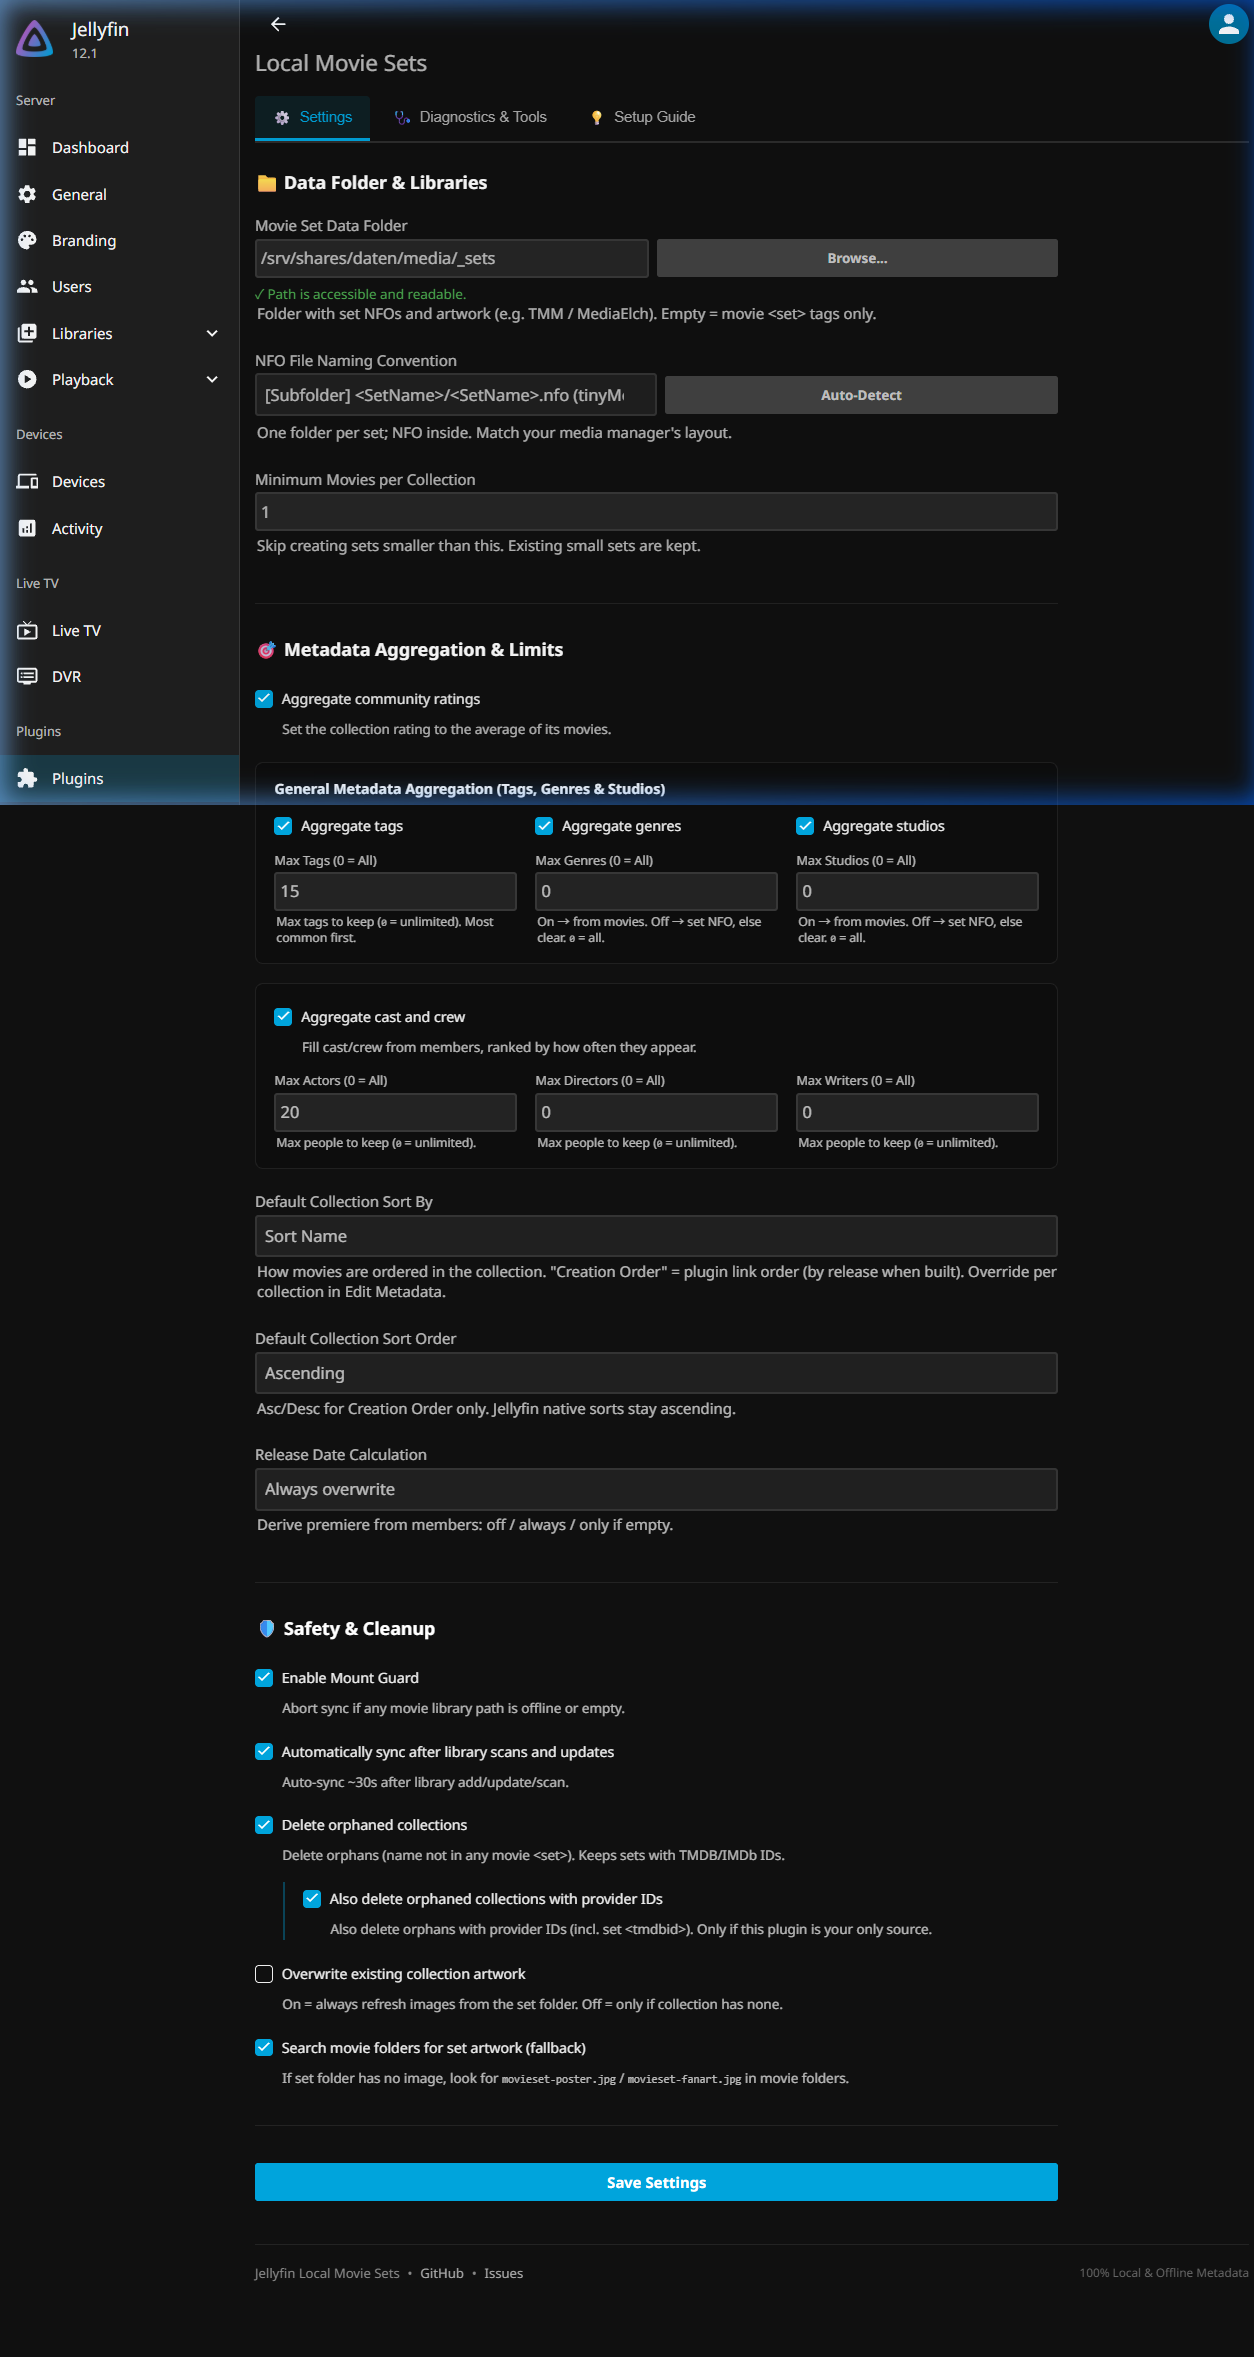
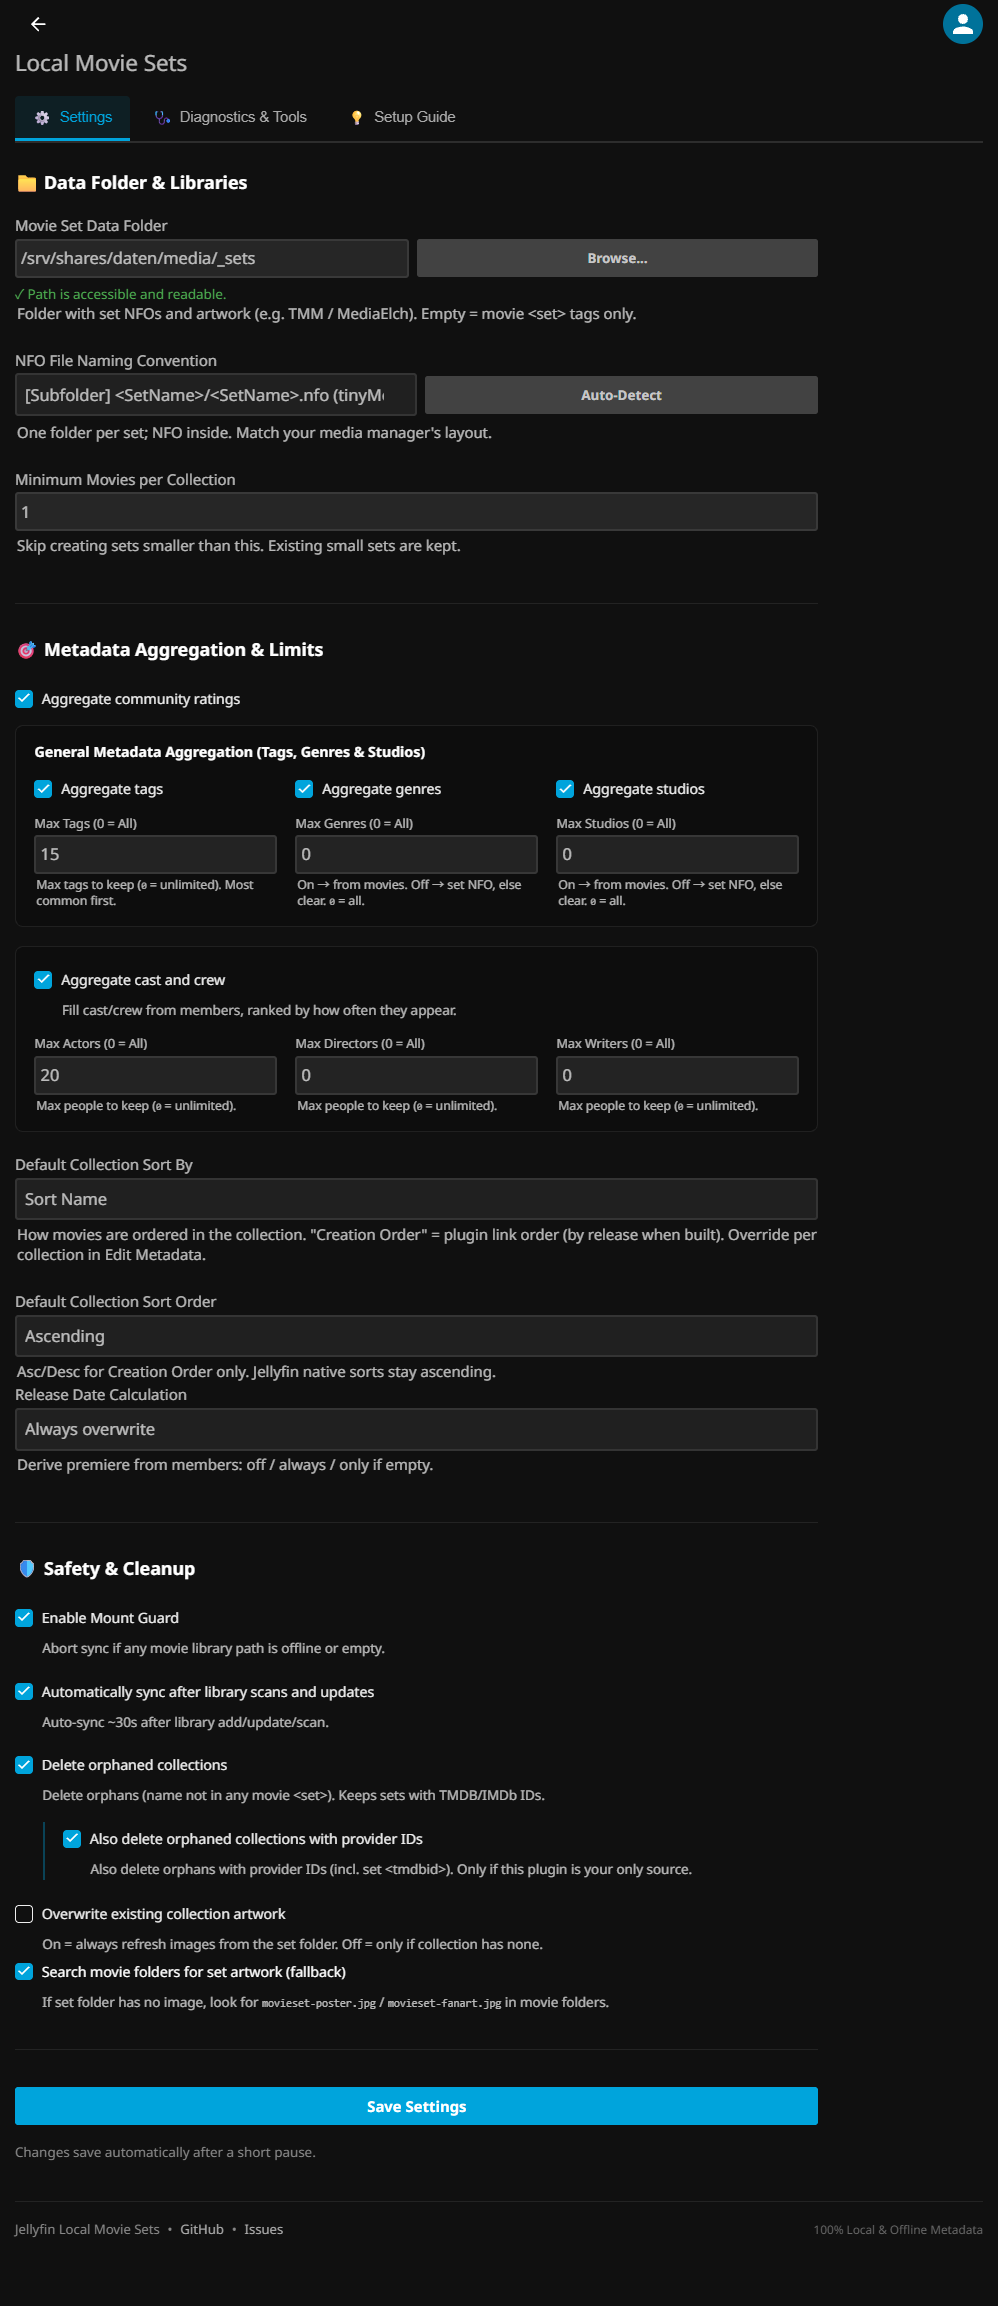
chore(release): prepare v1.0.36.0 release

Changed region(s): [[0.0, 0.0, 1.0, 0.9367], [0.6834, 0.8118, 0.7144, 0.843]]

diff --git a/CHANGELOG.md b/CHANGELOG.md
@@ -3,6 +3,25 @@
 All notable changes to this project will be documented in this file.
 The format is based on [Keep a Changelog](https://keepachangelog.com/en/1.1.0/).
 
+## [1.0.36.0] - 2026-10-01
+### Added
+- **Settings autosave:** Settings-tab changes save after a short pause (about 250 ms for checkboxes and dropdowns, about 900 ms for text and number fields; leaving a field saves immediately). **Save Settings** still saves at once. Confirmation uses the floating toast so the page does not shift.
+- **Live System Info & Bug Report:** Opening the dialog runs a dry-run Preview, NFO/artwork validation, and health checks (auto-add, image fetchers, grouping) instead of reusing only the last sync snapshot.
+- **Theme songs link:** The Setup Guide link opens Display preferences for the current user (`userId`). If that id is unavailable, it falls back to the user settings menu.
+
+### Changed
+- **Settings help text:** Shortened field descriptions on the Settings tab.
+- **Validate query parameter:** Diagnostics export passes `folderPath` so an unsaved Set Data Folder input is validated.
+- **Bug report template:** Path masking is on by default; title masking is optional and pattern-limited.
+- **README:** Screenshots match the current three-tab UI. Mount Guard and media-file FAQ match actual behavior (movie-library roots only; theme audio is copied into the Jellyfin collection folder).
+
+### Removed
+- **Inline status banner:** Save and sync messages no longer insert a bar that pushes the page down.
+- **Dashboard & History tab / Insights widget:** Sync progress stays in Jellyfin's activity log and Scheduled Tasks. Diagnostics export still includes last-run metrics when available.
+- **Dead status poll after Force Rebuild:** Removed a leftover poll call for a function that no longer exists.
+
+---
+
 ## [1.0.35.0] - 2026-09-30
 ### Added
 - **Interactive Dry-Run Sync Preview:** Comprehensive redesign of the preview tool in the Diagnostics tab:
@@ -20,16 +39,7 @@ The format is based on [Keep a Changelog](https://keepachangelog.com/en/1.1.0/).
 ### Changed
 - **Streamlined Configuration Tabs:** Consolidated into three focused tabs: ⚙ Settings, 🩺 Diagnostics & Tools, and 💡 Setup Guide.
 - **Default Limit Values:** Set default limit inputs to `0` (Unbegrenzt / All) across all metadata aggregation fields.
-- **README accuracy:** Feature list and FAQ now match current defaults (no library filter, optional release year/aggregation, theme music only from the set folder).
-- **Bug report template:** Clarified that path masking is on by default and title masking is optional / pattern-limited.
-- **Validate query parameter:** Diagnostics export now passes `folderPath` so an unsaved Set Data Folder input is actually validated.
-- **Settings help text:** Shortened field descriptions across the Settings tab for clearer defaults and orphan/artwork behavior.
-- **System Info & Bug Report:** Opens immediately and collects a live dry-run Preview, NFO/artwork validation, and health checks (auto-add / fetchers / grouping) instead of reusing only the last sync snapshot.
-- **Settings autosave:** Settings tab changes save automatically (≈250&nbsp;ms for checkboxes/selects, ≈900&nbsp;ms grace for text/number fields; blur flushes immediately). Save Settings still saves at once.
 
-### Removed
-- **Dashboard & History tab / Insights widget:** Removed from the configuration UI. Sync progress is visible via Jellyfin's server activity log and Scheduled Tasks; diagnostics export still includes last-run metrics when available.
-- **Dead status poll after Force Rebuild:** Removed a leftover `scheduleStatusPoll` call that referenced a function no longer present in the page.
 ---
 
 ## [1.0.34.0] - 2026-09-30

diff --git a/README.md b/README.md
@@ -62,7 +62,7 @@ If you curate your media collection using media managers such as [tinyMediaManag
 ## Key Features
 
 - ⚡ **100% Local & Offline:** Never makes outbound calls to TMDB, TVDb, or external servers. Your media collection stays private and works during internet outages.
-- 🩺 **Settings, Diagnostics & Setup Guide:** Instant sync, dry-run preview with movie-level diffs and KPI badges, NFO/artwork validation, path checks, Force Rebuild, and an in-plugin setup guide.
+- 🩺 **Settings, Diagnostics & Setup Guide:** Instant sync, dry-run preview with movie-level diffs and KPI badges, NFO/artwork validation, path checks, Force Rebuild, and an in-plugin setup guide. Settings save automatically after a short pause; **Save Settings** still saves immediately.
 - 🛡 **Mount Guard Protection:** Aborts sync (no create/delete) if a movie library path is missing, empty, or unreadable.
 - 📚 **All Movie Libraries:** Scans every movie library; there is no per-library filter in the UI.
 - 🔄 **Automatic Background Sync:** Hooks into Jellyfin library events to resync after library scans (with debounce).
@@ -144,10 +144,10 @@ You likely have Jellyfin's native **"Automatically add to collection"** option e
 In the dedicated set data folder (e.g. `_sets/Alien Collection/poster.jpg`). Optionally enable **Search movie folders for set artwork** and place `movieset-poster.jpg` / `movieset-fanart.jpg` in member movie folders. Theme music belongs only in the set folder (`theme.mp3` or a prefixed name).
 
 ### Will my collections disappear if my network drive unmounts?
-No. **Mount Guard** checks that movie library roots are online and non-empty before sync. If a share is unreachable or empty, the sync aborts and leaves existing collections untouched.
+**Mount Guard** (on by default) checks every movie library root before sync. If a root is missing, empty, or unreadable, the sync aborts and leaves existing collections untouched. It does not check the Movie Set Data Folder. Deleting collections that no longer appear in any movie NFO is a separate option and is off by default.
 
 ### Does this plugin modify any of my media files?
-**Never.** Local Movie Sets operates in strict **read-only mode** with respect to your physical files. It never edits, renames, or writes to your `.nfo`, video, or image files on disk.
+Your movie and set `.nfo`, video, and image files are only read. Theme audio is copied into Jellyfin's own collection folder. **Force Rebuild** and orphan deletion remove those Jellyfin collection folders, not your media files.
 
 ---
 
